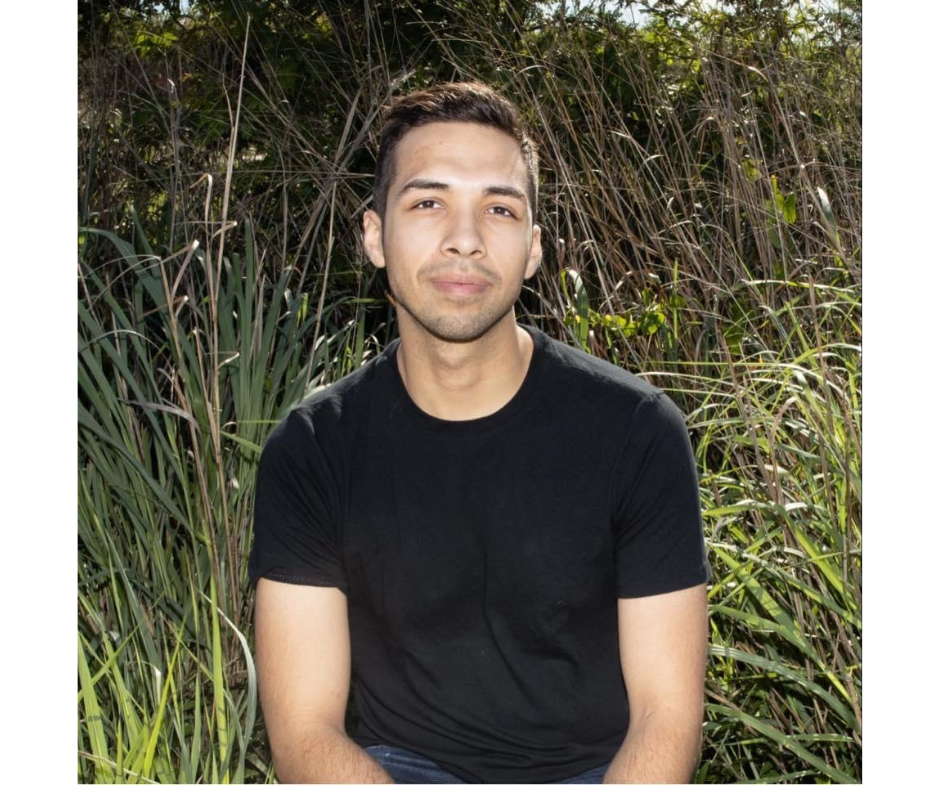
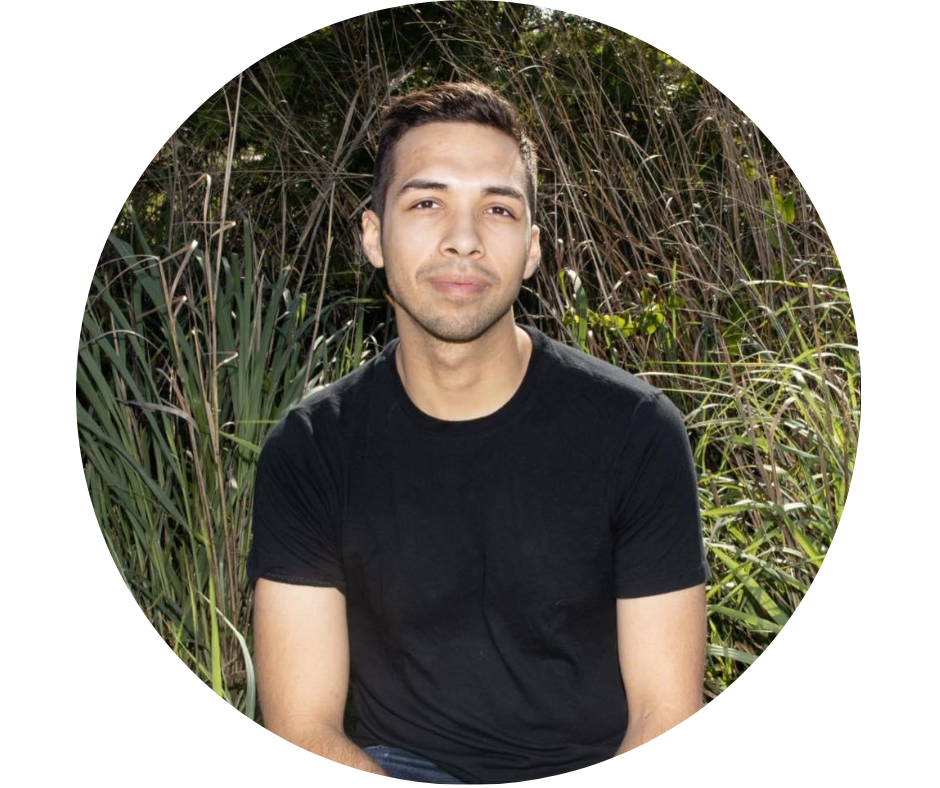
edited styling

diff --git a/src/components/Contact.jsx b/src/components/Contact.jsx
@@ -2,18 +2,18 @@ import React from 'react'
 
 const Contact = () => {
   return (
-    <div name='contact' className='w-full h-screen bg-gradient-to-b from-gray-900 bg-gray-700 p-4 text-white'>
+    <div name='contact' className='w-full h-screen bg-gradient-to-b from-zinc-800 bg-gray-900 p-4 text-white'>
 
       <div className='flex flex-col p-4 justify-center max-w-screen-lg mx-auto h-full'>
         <div className='pb-8'>
-          <p className='text-4xl font-bold inline border-b-4 border-gray-500'>Contact</p>
-          <p className='py-6 text-xl'>submit the form below to get in touch 📧</p>
+          <p className='text-4xl font-bold inline border-b-4 border-gray-500 text-gray-200'>Contact</p>
+          <p className='py-6 text-xl font-bold text-gray-200'>Submit the form below to get in touch 📧</p>
         </div>
         <div className='flex justify-center items-center'>
           <form action="https://getform.io/f/4e7c1d6d-2380-449b-b0a5-18a9ef4de54c" method="POST"className='flex flex-col w-full md:w-1/2'>
-            <input  type="text" name="name" placeholder='Enter your name' className='p-2 bg-transparent border-2 rounded-md text-white focus:outline-none'/>
-            <input  type="text" name="email" placeholder='Enter your email' className='my-4 p-2 bg-transparent border-2 rounded-md text-white focus:outline-none'/>
-            <textarea name="message" placeholder='Enter your message' rows="10" className='p-2 bg-transparent border-2 rounded-md text-white focus:outline-none resize-none'></textarea>
+            <input  type="text" name="name" placeholder='Enter your name' className='p-2 bg-transparent border-2 rounded-md text-white focus:outline-none bg-gray-500'/>
+            <input  type="text" name="email" placeholder='Enter your email' className=' my-4 p-2 bg-transparent border-2 rounded-md text-white focus:outline-none'/>
+            <textarea name="message" placeholder='Enter your message' rows="10" className='p-2   rounded-md text-white focus:outline-none resize-none w-full bg-transparent border'></textarea>
             <button className='group text-white w-fit px-6 py-3 my-8 flex items-center rounded-md bg-gradient-to-r from-cyan-500 to-blue-500 cursor-pointer hover:scale-110 duration-300 mx-auto'>Submit</button>
           </form>
         </div>

diff --git a/src/components/About.jsx b/src/components/About.jsx
@@ -2,20 +2,20 @@ import React from 'react'
 
 const About = () => {
   return (
-    <div name="about" className='w-full h-screen bg-gradient-to-b from-gray-700 to-gray-900 text-white'>
+    <div name="about" className='w-full h-screen bg-gradient-to-b from-gray-900 to-zinc-800 text-white'>
 
     <div className='max-w-screen-lg p-4 mx-auto flex flex-col justify-center w-full h-full'>
 
       <div className='pb-9'>
-        <p className='text-4xl font-bold inline border-b-4 border-gray-500'>About</p>
+        <p className='text-4xl font-bold inline border-b-4 border-gray-500 text-gray-200'>About</p>
       </div>
 
-      <p className='text-xl'>I am in the midst of a career transition from the real estate industry to the dynamic world of web development. Currently, I am pursuing a Full-stack Web Development Certificate from the University of Texas at Austin. This journey has ignited my passion for coding and equipped me with the essential knowledge and skills for success in this fast-paced field.
+      <p className='text-xl text-gray-200 font-bold'>I am in the midst of a career transition from the real estate industry to the dynamic world of web development. Currently, I am pursuing a Full-stack Web Development Certificate from the University of Texas at Austin. This journey has ignited my passion for coding and equipped me with the essential knowledge and skills for success in this fast-paced field.
       </p>
 
       <br />
 
-      <p className='text-xl'>With a real estate background, I bring essential skills to the table. My analytical thinking and creative problem-solving empower me to address complex challenges in web development, and I possess a proven aptitude for rapid learning and effective communication. I'm excited to contribute my skill set to collaborative action and any challenges I may encounter.</p>
+      <p className='text-xl text-gray-200 font-bold'>With a real estate background, I bring essential skills to the table. My analytical thinking and creative problem-solving empower me to address complex challenges in web development, and I possess a proven aptitude for rapid learning and effective communication. I'm excited to contribute my skill set to collaborative action and any challenges I may encounter.</p>
     </div>
 
     </div>

diff --git a/src/components/Portfolio.jsx b/src/components/Portfolio.jsx
@@ -49,18 +49,18 @@ const Portfolio = () => {
   ]
 
   return (
-    <section name="portfolio" className='w-full bg-cover h-full  bg-gradient-to-b from-gray-900 to-gray-700 text-white '>
+    <section name="portfolio" className='w-full bg-cover h-full  bg-gradient-to-b from-zinc-800 to-gray-900 text-white '>
       <div className='max-w-screen-lg p-4 mx-auto flex flex-col justify-center w-full h-full'>
 
 
-      <div className='pb-9'>
-        <p className=' text-4xl font-bold inline border-b-4 border-gray-500'>Portfolio</p>
+      <div className='pb-5'>
+        <p className=' text-4xl font-bold inline border-b-4 border-gray-500 text-gray-200'>Portfolio</p>
       </div>
-      <p className='text-xl py-6'>Here is a collection of a few of my Projects.</p>
+      <p className='text-xl py-6 text-gray-200 font-bold'>Here is a collection of a few of my Projects.</p>
 
-      <div className='grid sm:grid-col-2 md:grid-col-3 gap-8 px-12 lg:gap-10 sm:px-0 lg:grid-cols-2'>
+      <div className='grid sm:grid-col-2 md:grid-col-3 gap-8 px-12 lg:gap-10 sm:px-0 lg:grid-cols-2 '>
     {projects.map(({id, image, title, github, website})=>(
-      <div key={id} className='max-w-lg flex shadow-lg shadow-gray-300 rounded-2xl overflow-hidden  p-4 mx-auto flex-row duration-500 hover:shadow-blue-500'>
+      <div key={id} className='max-w-lg flex shadow-lg shadow-gray-300 rounded-2xl overflow-hidden  p-4 mx-auto flex-row duration-500 hover:shadow-blue-500 bg-gray-700'>
         <img src={image} alt={title} className='w-2/3 rounded-lg duration-200 hover:scale-105'/>
         <div className='w-1/3 flex flex-col items-center justify-evenly p-1'>
           <h2>{title}</h2>

diff --git a/src/components/Home.jsx b/src/components/Home.jsx
@@ -2,18 +2,19 @@ import React from 'react'
 import hero from '../assets/hero.png'
 import {BsFillArrowRightCircleFill} from 'react-icons/bs'
 import {Link} from 'react-scroll'
+import RevolvingText from './RevolvingText'
 
 const Home = () => {
   return (
-    <div name='home' id='home' className='h-screen w-full bg-gradient-to-b from-gray-900 to-gray-700 '>
+    <div name='home' id='home' className='h-screen w-full bg-gradient-to-b from-zinc-800 to-gray-900 '>
 
 
-      <div className='max-w-screen-lg mx-auto flex flex-col items-center justify-center h-full px-4 md:flex-row '>
+      <div className='max-w-screen-lg mx-auto flex flex-col items-center justify-center h-full  md:flex-row  '>
 
         <div className='flex flex-col justify-center h-full -mt-24'>
-          <h2 className='text-3xl sm:text-7xl font-bold text-white'>Full Stack M.E.R.N. Developer</h2>
+          <h2 className='text-3xl sm:text-7xl font-bold text-gray-200  '>Full Stack M.E.R.N. Developer</h2>
           <p className='text-gray-500 py-4 max-w-md'>
-            Lorem, ipsum dolor sit amet consectetur adipisicing elit. Maiores maxime quo sapiente 
+            <RevolvingText/>
           </p>
 
 
@@ -30,8 +31,8 @@ const Home = () => {
         </div>
 
 
-        <div className="rounded-tl-lg">
-          <img src={hero} alt="Developer" className=' mx-auto w-2/3 md:w-full sm:w-96 rounded-tl-lg -mt-24' />
+        <div className="rounded-full">
+          <img src={hero} alt="Developer" className=' mx-auto  md:w-full w-2/3 -mt-24 rounded-e-full'/>
         </div>
 
 

diff --git a/src/components/navbar.jsx b/src/components/navbar.jsx
@@ -29,13 +29,13 @@ const NavBar = () => {
   return (
     <div className='flex justify-between items-center w-full h-20 text-white fixed bg-gray-900 px-4 border-b-2'>
       <div>
-        <h1 className='text-4xl'>Pablo's <span>TechTide</span></h1>
+        <h1 className='text-4xl text-blue-100'>Pablo's <span>TechTide</span></h1>
       </div>
 
 
       <ul className='hidden md:flex'>
         {anchors.map(({id, link}) => (
-          <li key={id} className='px-4 cursor-pointer capitalize font-medium text-gray-500 hover:scale-105 duration-200'>
+          <li key={id} className='px-4 cursor-pointer capitalize font-medium text-gray-400 hover:scale-105 hover:text-blue-400 duration-200'>
             <Link to={link} smooth duration={500}>{link}</Link>
             </li>
         ))}
@@ -49,7 +49,7 @@ const NavBar = () => {
 
       {nav && (
 
-      <ul className='flex flex-col justify-center items-center absolute top-0 left-0 w-full h-screen bg-black text-gray-500'>
+      <ul className='flex flex-col justify-center items-center absolute top-0 left-0 w-full h-screen bg-gradient-to-b from-zinc-800 to-gray-900 text-gray-300'>
         {anchors.map(({ id, link }) => (
           <li key={id} className='px-4 cursor-pointer capitalize py-6 text-4xl'>
             <Link onClick={()=> setNav(!nav)} to={link} scroll duration={500}>{link}</Link>

diff --git a/src/components/RevolvingText.jsx b/src/components/RevolvingText.jsx
@@ -1,0 +1,28 @@
+import React from 'react'
+import { Typewriter } from 'react-simple-typewriter'
+
+function RevolvingText() {
+
+
+  return (
+      <div>
+        <div className='text-xl'>
+        <span className='font-bold inline text-gray-200'>I am</span>{' '}
+          <span className='bg-gradient-to-r from-cyan-500 to-blue-500 inline text-transparent bg-clip-text'>
+            <Typewriter
+              words={['experienced in building dynamic web applications.', 'passionate about creating seamless user experiences.', 'dedicated to delivering high-quality software solutions.', 'ready to tackle complex development challenges.']}
+              loop={5}
+              cursor
+              cursorStyle='_'
+              typeSpeed={60}
+              deleteSpeed={10}
+              delaySpeed={1000}
+
+            />
+          </span>
+          </div>
+      </div>
+    )
+}
+
+export default RevolvingText

diff --git a/src/components/Experience.jsx b/src/components/Experience.jsx
@@ -56,7 +56,7 @@ function Experience() {
   ]
 
   return (
-    <div name="experience" className='bg-gradient-to-b from-gray-700 to to-gray-900 w-full h-screen'> 
+    <div name="experience" className='bg-gradient-to-b from-gray-900 to to-zinc-800 w-full h-screen'> 
 
 
 
@@ -70,7 +70,7 @@ function Experience() {
 
         {experience.map(({id, skill, href}) => (
 
-        <div key={id} className='shadow-md hover:scale-105 duration-500 py-2 rounded-lg bg-gray-800 shadow-gray-500 hover:shadow-blue-500'>
+        <div key={id} className='shadow-md hover:scale-105 duration-500 py-2 rounded-lg bg-gray-700 shadow-gray-500 hover:shadow-blue-500'>
         <img src={href} alt={skill} className='w-20 mx-auto'/>
           <p className='mt-4'>{skill}</p>
         </div>

diff --git a/src/components/Links.jsx b/src/components/Links.jsx
@@ -60,7 +60,7 @@ export const Links = () => {
 
 
 
-      <li key={link.id} className={`flex justify-between items-center w-40 h-14 px-4 ml-[-100px] hover:ml-[-10px] hover:rounded-md duration-300 bg-gray-500 ${link.style}`}>
+      <li key={link.id} className={`flex justify-between items-center w-40 h-14 px-4 ml-[-100px] hover:ml-[-10px] hover:rounded-md duration-300 bg-gray-600 ${link.style}`}>
         <a href={link.href} className='flex justify-between items-center w-full text-white' download={link.download} target='_blank' rel="noreferrer"> 
           {link.child} 
 
